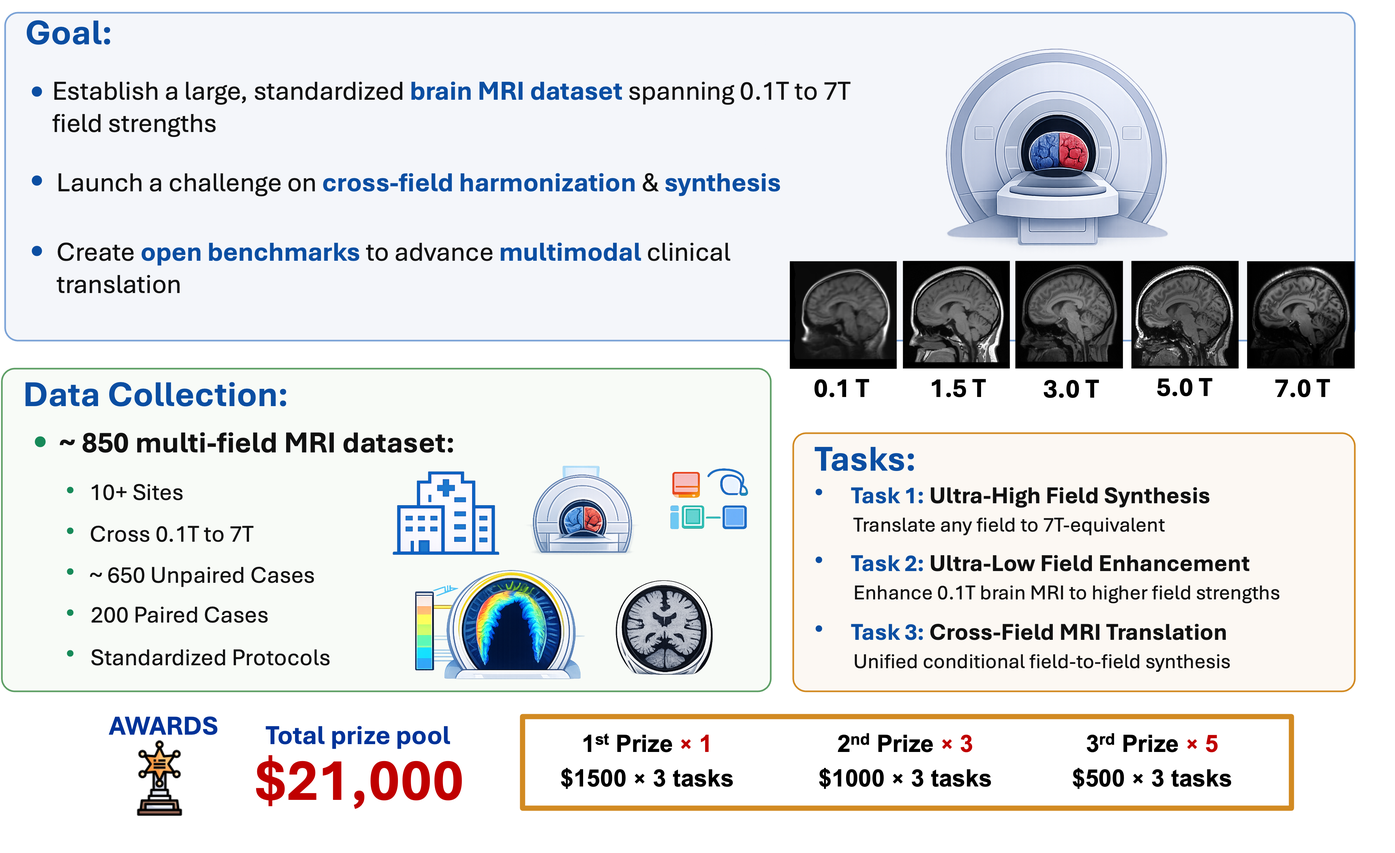
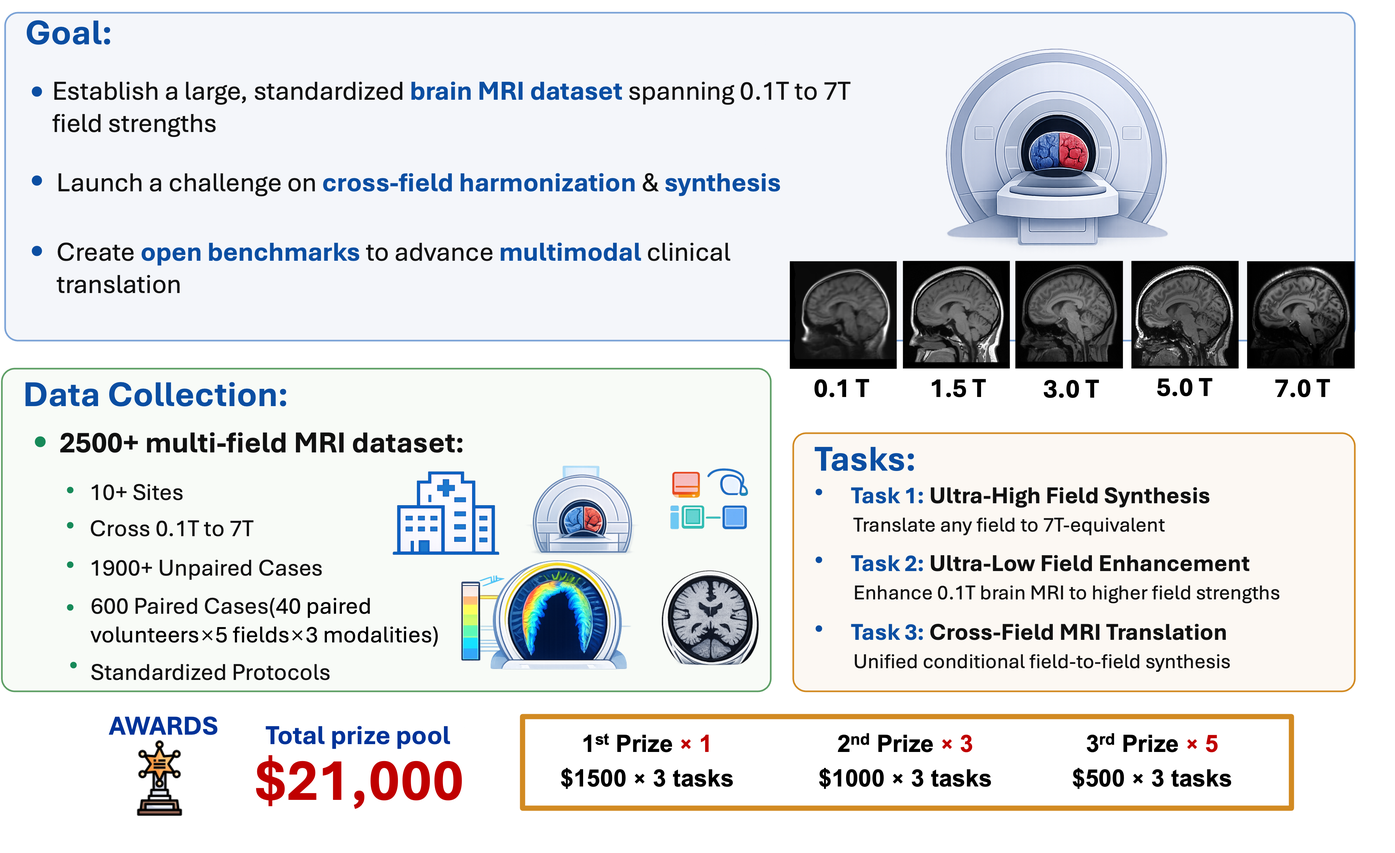
Refine MRIxFields2026 content updates

Changed region(s): [[0.0621, 0.5881, 0.5593, 0.8047], [0.0311, 0.4952, 0.3418, 0.5262]]

diff --git a/pages/mrixfields-2026/data.md b/pages/mrixfields-2026/data.md
@@ -12,81 +12,74 @@ title: Data
 </center>
 
 ## Data sources
-MRIxFields2026 provides a large-scale multi-field MRI dataset spanning 0.1T to 7T, integrating unpaired multi-center cohorts with prospectively acquired travelling-volunteer paired data.
+MRIxFields2026 provides a large-scale multi-field MRI dataset spanning 0.1T to 7T, integrating unpaired multi-center cohorts with prospectively acquired travelling-volunteer paired data. 
 
 💾 **Data Overview: Scale & Diversity**
 
 - **Total Volume:**  
-  - Total Volume: The dataset comprises approximately unpaired ~ 650 retrospective cases for each modality (average, scanned at all 5 field strengths ) and 40 prospectively acquired travelling-volunteer cases (paired, scanned at all 5 field strengths), yielding 200 cross-field paired scans for each modality.
+  - Total Volume: The dataset comprises approximately 2500+ retrospective unpaired cases (5 fields; 3 modalities ) and 600 paired cases (40 paired volunteers×5 fields×3 modalities).
 
-- **Multi-field structural brain MRI data featuring:5 Field Strengths: 0.1T, 1.5T, 3T, 5T, 7T systems.**  
-  - 3 Modalities: 3D T1-Weighted (T1W), 2D/3D T2-Weighted (T2W), 2D/3D T2-FLAIR.
+- **○Multi-field structural brain MRI data featuring:5 Field Strengths: 0.1T, 1.5T, 3T, 5T, 7T systems.**  
+  - 3 Modalities: 3D T1-Weighted (T1W), 2D/3D T2-Weighted (T2W), 2D/3D T2 FLAIR.(For 2D data, we utilize a pre-trained super-resolution network to reconstruct 3D volumes from 2D inputs.)
   - 3 Manufacturers: Siemens Healthineers, United Imaging Healthcare, Point Imaging. 
 
 | Field Strength | Prospective T1w (paired) | Prospective T2w (paired) | Prospective T2 FLAIR (paired) | Retrospective T1w (unpaired) | Retrospective T2w (unpaired) | Retrospective T2 FLAIR (unpaired) | Scanners | Manufacturer |
-|---|---:|---:|---:|-----------------------------:|-----------------------------:|----------------------------------:|---|---|
-| 0.1T | 40 (3D) | 40 (3D) | 40 (3D) |                     100 (3D) |                     100 (3D) |                           99 (2D) | piMR-820H | Point Imaging |
-| 1.5T | 40 (3D) | 40 (3D) | 40 (3D) |                     104 (3D) |                     221 (2D) |                          221 (2D) | uMR 670 | United Imaging Healthcare |
-| 3T | 40 (3D) | 40 (3D) | 40 (3D) |                     143 (3D) |                     142 (3D) |                          143 (2D) | MAGNETOM Prisma | Siemens Healthineers |
-| 5T | 40 (3D) | 40 (3D) | 40 (3D) |                     121 (3D) |                      43 (3D) |                          102 (2D) | uMR Jupiter | United Imaging Healthcare |
-| 7T | 40 (3D) | 40 (3D) | 40 (3D) |                     235 (3D) |                      81 (3D) |                           84 (2D) | MAGNETOM Terra | Siemens Healthineers |
-
+|---|---:|---:|---:|---:|---:|---:|---|---|
+| 0.1T | 40 (3D) | 40 (3D) | 40 (2D) | 100 (3D) | 100 (3D) | 99 (2D) | piMR-820H | Point Imaging |
+| 1.5T | 40 (3D) | 40 (3D) | 40 (2D) | 104 (3D) | 221 (2D) | 221 (2D) | uMR 670 | United Imaging Healthcare |
+| 3T | 40 (3D) | 40 (3D) | 40 (2D) | 143 (3D) | 142 (3D) | 143 (2D) | MAGNETOM Prisma | Siemens Healthineers |
+| 5T | 40 (3D) | 40 (3D) | 40 (2D) | 121 (3D) | 43 (3D) | 102 (2D) | uMR Jupiter | United Imaging Healthcare |
+| 7T | 40 (3D) | 40 (3D) | 40 (2D) | 235 (3D) | 81 (3D) | 84 (2D) | MAGNETOM Terra | Siemens Healthineers |
 
 📊 **Dataset seperation: Training, Validation, and Testing**
 
 ### Overall Split
 
-- Training set: About 665 cases for each modality (average), consisting of the retrospective unpaired cohort together with paired data from 10 travelling volunteers × 5 field strengths
-- Validation set: 85 cases, corresponding to 17 volunteers × 5 field strengths
-- Test set: 100 cases, corresponding to 20 held-out volunteers × 5 field strengths
+- Training set: 1945+ cases (T1W, T2W, T2 FLAIR), consisting of the 1900+ retrospective unpaired cases together with 45 paired cases (3 paired volunteers× 5 fields×3 modalities)
+- Validation set: 255 cases, corresponding to 17 volunteers × 5 fields × 3 modalities
+- Test set: 300 cases, corresponding to 20 held-out volunteers × 5 fields × 3 modalities
 
 The precise role of each split varies across tasks, depending on whether the task is driven primarily by unpaired learning, paired target-domain supervision, or controllable conditional generation.
 
 
 ### Task 1: Ultra-High-Field MRI Synthesis from Arbitrary Input Field Strengths
 
-- **Training Set (N ≈ 665 for each modality in average)**  
-  - The training set consists primarily of the retrospective unpaired cohort **(N ≈ 650 cases)**, supplemented with paired data from **3 travelling volunteers (N = 15 cases).**
+- **Training Set (1945+ cases)**  
+  - The training set consists 1900+ retrospective unpaired cases, supplemented with 45 paired cases (3 paired volunteers× 5 fields×3 modalities).
 
-  This yields a total of more than **665 training cases**, covering all five field strengths and multiple structural contrasts.
+- **Validation Set (255 cases):**  
+  - The validation set consists of 17 travelling volunteers scanned across five field strengths and 3 modalities (17 × 5 × 3 =255 cases).
 
-- **Validation Set (N = 85 for each modality in average):**  
-  - The validation set consists of **17 travelling volunteers scanned across five field strengths (17 × 5 = 85 cases).**
+  These paired data enable controlled within-case validation against corresponding 7T targets.
 
-  These paired data enable controlled within-subject validation against corresponding 7T targets.
-
-- **Test Set (N = 100 for each modality in average):**  
-  - The test set includes **20 held-out travelling volunteers scanned across five field strengths (20 × 5 = 100 cases).**
+- **Test Set (300 cases):**  
+  - The test set includes 20 held-out travelling volunteers scanned across five field strengths and 3 modalities (20 × 5 × 3 = 300 cases).
 
   Paired 7T references are withheld and used exclusively for final evaluation.
 
 ### Task 2: Higher-Field MRI Generation from Ultra-Low-Field MRI
 
-- **Training Set (N ≈ 665 for each modality in average)**  
-  - The training set includes all retrospective unpaired data **(N ≈ 650 cases)**, with emphasis on **0.1T inputs**, and paired data from **3 travelling volunteers (N = 15 cases).**
+- **Training Set (1945+ cases)**  
+  - The training set consists 1900+ retrospective unpaired cases, supplemented with 45 paired cases (3 paired volunteers× 5 fields×3 modalities).
 
-  In total, the training set contains about **665 cases**, spanning ultra-low-field to higher-field domains.
+- **Validation Set (255 cases):**  
+  - The validation set consists of 17 travelling volunteers (17 × 5 × 3 =255 cases), including paired 0.1T and higher-field scans with 3 modalities for within-case evaluation.
 
-- **Validation Set (N = 85 for each modality in average):**  
-  - The validation set consists of **17 travelling volunteers (N = 85 cases)**, including paired **0.1T and higher-field scans** for within-subject evaluation.
-
-- **Test Set (N = 100 for each modality in average):**  
-  - The test set consists of **20 held-out travelling volunteers (N = 100 cases).**
+- **Test Set (300 cases):**  
+  - The test set consists of 20 held-out travelling volunteers (20 × 5 × 3 = 300 cases).
 
   The 0.1T images serve as inputs, while higher-field references are withheld for evaluation.
 
 ### Task 3: Controllable Field-to-Field MRI Synthesis with a Unified Conditional Model
 
-- **Training Set (N ≈ 665 for each modality in average)**  
-  - The training set includes the full retrospective unpaired cohort **(N ≈ 650 cases)** and paired data from **3 travelling volunteers (N = 15 cases).**
+- **Training Set (1945+ cases)**  
+  - The training set consists 1900+ retrospective unpaired cases, supplemented with 45 paired cases (3 paired volunteers× 5 fields×3 modalities).
 
-  This results in about **665 training cases**, covering all field strengths and supporting many-to-many translation learning.
+- **Validation Set (255 cases):**  
+  - The validation set consists of 17 travelling volunteers (N = 255 cases), enabling evaluation across all possible field-to-field translation directions.
 
-- **Validation Set (N = 85 for each modality in average):**  
-  - The validation set consists of **17 travelling volunteers (N = 85 cases)**, enabling evaluation across all possible field-to-field translation directions.
-
-- **Test Set (N = 100 for each modality in average):**  
-  - The test set consists of **20 held-out travelling volunteers (N = 100 cases).**
+- **Test Set (300 cases):**  
+  - The test set consists of 20 held-out travelling volunteers (N = 300 cases).
 
 All target-domain references are withheld and used only for final ranking.
 
@@ -98,25 +91,25 @@ To ensure anatomical consistency across field strengths while preserving realist
 
 #### 1.1 Prospective Travelling-Volunteer Cohort (Paired Data)
 
-For the paired dataset, we adopted a **subject-specific, 3T-anchored registration strategy** to preserve within-subject anatomical correspondence across field strengths while minimizing artificial deformation.
+For the paired dataset, we adopted a case-specific, 3T-anchored registration strategy to preserve within-case anatomical correspondence across field strengths while minimizing artificial deformation.
 
-##### Step 0: Intra-subject multi-contrast alignment
-For each subject, **T2-weighted** and **T2-FLAIR** images were first rigidly registered to the corresponding **T1-weighted** image to ensure within-subject cross-contrast alignment.
+##### Step 0: Intra-case multi-contrast alignment
+For each case, T2W and T2 FLAIR images were first rigidly registered to the corresponding T1W image to ensure within-case cross-contrast alignment.
 
 ##### Step 1: Skull stripping
-Skull stripping was then performed using **HD-BET** on the **T1-weighted** images, and the resulting brain masks were propagated to **T2-weighted** and **T2-FLAIR** images.
+Skull stripping was then performed using HD-BET on the T1W images, and the resulting brain masks were propagated to T2W and T2 FLAIR images.
 
 ##### Step 2: Reference definition
-The skull-stripped **3T T1-weighted** image was rigidly registered to the **MNI152 (0.5 mm, skull-off) template**, establishing a subject-specific reference in standard space.
+The skull-stripped 3T T1W image was rigidly registered to the MNI152 (0.5 mm, skull-off) template, establishing a case-specific reference in standard space.
 
 ##### Step 3: Cross-field alignment
-T1-weighted images from all other field strengths (**0.1T, 1.5T, 5T, and 7T**) were rigidly registered to the **subject-specific 3T T1 image in MNI space**, ensuring consistent global alignment across fields.
+T1W images from all other field strengths (0.1T, 1.5T, 5T, and 7T) were rigidly registered to the case-specific 3T T1W image in MNI space, ensuring consistent global alignment across fields.
 
 ##### Step 4: Nonlinear refinement (optional)
-For cases with residual misalignment, **SyN nonlinear registration (ANTs)** was applied as a refinement step to improve local anatomical correspondence.
+For cases with residual misalignment, SyN nonlinear registration (ANTs) was applied as a refinement step to improve local anatomical correspondence.
 
 ##### Multi-contrast propagation
-The estimated transformations from **T1-weighted** images were propagated to the corresponding **T2-weighted** and **T2-FLAIR** images. When necessary, additional **SyN-based refinement** was applied to these modalities to correct residual mismatch.
+The estimated transformations from T1W images were propagated to the corresponding T2W and T2 FLAIR images. When necessary, additional SyN-based refinement was applied to these modalities to correct residual mismatch.
 
 #### 1.2 Retrospective Multi-Field Cohort (Unpaired Data)
 
@@ -144,7 +137,7 @@ This process ensures high data quality and reliable anatomical alignment across 
 
 ### 5. Data Organization
 
-All processed data are organized according to the **BIDS (Brain Imaging Data Structure)** standard, with consistent metadata across subjects, field strengths, and acquisition sites.
+All processed data are organized according to the **BIDS (Brain Imaging Data Structure)** standard, with consistent metadata across volunteers, field strengths, and acquisition sites.
 
 #### Reference Information
 
@@ -164,7 +157,7 @@ Segmentation was applied uniformly to all images after preprocessing, without ad
 
 ### 2. Structural Feature Extraction
 
-Based on the segmentation outputs, regional structural measures were derived for each subject, including:
+Based on the segmentation outputs, regional structural measures were derived for each case, including:
 
 - Regional brain volumes for deep gray matter structures
 - Bilateral measurements across anatomical regions
@@ -209,37 +202,37 @@ This post-processing step provides anatomically meaningful representations of th
 
 ``` text
 ChallengeData
-├── Training_retrospective/          # Training (unpaired, different subjects)
-│   ├── 3D_T1W/
+├── Training_retrospective/          # Training (unpaired, different volunteers)
+│   ├── T1W/
 │   │   ├── 0.1T/*.nii.gz
 │   │   ├── 1.5T/*.nii.gz
 │   │   ├── 3T/*.nii.gz
 │   │   ├── 5T/*.nii.gz
 │   │   └── 7T/*.nii.gz
-│   ├── 3D_T2W/
+│   ├── T2W/
 │   │   ├── 0.1T/*.nii.gz
 │   │   ├── 1.5T/*.nii.gz
 │   │   ├── 3T/*.nii.gz
 │   │   ├── 5T/*.nii.gz
 │   │   └── 7T/*.nii.gz
-│   └── 3D_T2_Flair/
+│   └── T2FLAIR/
 │       ├── 0.1T/*.nii.gz
 │       ├── 1.5T/*.nii.gz
 │       ├── 3T/*.nii.gz
 │       ├── 5T/*.nii.gz
 │       └── 7T/*.nii.gz
 ├── Training_prospective/            # Training (paired, travelling volunteers)
-│   ├── 3D_T1W/ {0.1T, 1.5T, 3T, 5T, 7T}
-│   ├── 3D_T2W/
-│   └── 3D_T2_Flair/
+│   ├── T1W/ {0.1T, 1.5T, 3T, 5T, 7T}
+│   ├── T2W/
+│   └── T2FLAIR/
 ├── Validating_prospective/          # Validation (paired)
-│   ├── 3D_T1W/{0.1T, 1.5T, 3T, 5T, 7T}
-│   ├── 3D_T2W/
-│   └── 3D_T2_Flair/
+│   ├── T1W/{0.1T, 1.5T, 3T, 5T, 7T}
+│   ├── T2W/
+│   └── T2FLAIR/
 └── Testing_prospective/             # Test (paired)
-    ├── 3D_T1W/{0.1T, 1.5T, 3T, 5T, 7T}
-    ├── 3D_T2W/
-    └── 3D_T2_Flair/
+    ├── T1W/{0.1T, 1.5T, 3T, 5T, 7T}
+    ├── T2W/
+    └── T2FLAIR/
 ```
 
 For each individual NIfTI file, our naming convention is “field strength_ID”, for example, “5T_002”. Please note that the same ID corresponds to the same subject, while different IDs correspond to different subjects. Therefore, if you plan to use multi-contrast data for training, you will need to match the IDs accordingly.

diff --git a/pages/mrixfields-2026/tasks.md b/pages/mrixfields-2026/tasks.md
@@ -10,7 +10,7 @@ The MRIxFields2026 challenge includes three complementary tasks. The tasks are e
 For each task, participants must submit their models separately as containerized inference pipelines via Docker images. Participants are allowed to make up to 3 formal submissions per task, and only the last run is officially counted to rank the results.
 
 
-Please note that for all three tasks, the provided datasets are identical: consisting of about 650 unpaired for each modality (average) and 3 paired volunteers (15 cases) for training, 17 paired volunteers (85 cases) for validation, and 20 paired volunteers (100 cases) for testing. However, the evaluation reference targets will vary depending on the specific task (e.g., using a fixed 7T reference for Task 1, versus dynamic field-conditioned targets for Task 3).
+Please note that for all three tasks, the provided datasets are identical: consisting of about 1900+ unpaired cases (T1W, T2W, T2 FLAIR) and 45 paired cases (3 paired volunteers × 5 fields × 3 modalities) for training, 255 paired cases (17 paired volunteers × 5 fields × 3 modalities)  for validation, and 300 paired cases (20 paired volunteers × 5 fields × 3 modalities) for testing. However, the evaluation reference targets will vary depending on the specific task (e.g., using a fixed 7T reference for Task 1, versus dynamic field-conditioned targets for Task 3).
 
 <center>
   <img src="/tasks/3tasks.png" alt="Awards Overview" width="100%" style="max-width: 1100px; height: auto; margin-bottom: 20px;">
@@ -168,10 +168,19 @@ The schedule of the challenge is as follows. All deadlines are Pacific Standard 
 
 6. Any publicly available datasets can be used for training. However, participants are not allowed to use their own private data to ensure the fairness of this challenge. Data augmentation based on the training dataset is allowed. No manual interventions, such as manual annotation of cases, are allowed.
 
-7. For Task 1 and Task 2, participants may design separate models for different input field strengths (4 input field strengths) and different image contrasts (T1w, T2w, T2-FLAIR) to address field-dependent variations in noise, resolution, and contrast behavior. That is, you may provide 12 separate models for image generation. However, for Task 3, participants must utilize a single unified conditional model to enable dynamic image generation conditioned on desired target field parameters. You may use a prompt-based mechanism, but only one set of pretrained parameters is allowed to be stored for Task 3. If a participating team submits multiple models for Task 3, the submission will be disqualified and no score will be counted.
+7. For Task 1 and Task 2, participants may design separate models for different input field strengths (4 input field strengths) and different image contrasts (T1W, T2W, T2 FLAIR) to address field-dependent variations in noise, resolution, and contrast behavior. That is, you may provide 12 separate models for image generation. However, for Task 3, participants must utilize a single unified conditional model to enable dynamic image generation conditioned on desired target field parameters. You may use a prompt-based mechanism, but only one set of pretrained parameters is allowed to be stored for Task 3. If a participating team submits multiple models for Task 3, the submission will be disqualified and no score will be counted.
 
-8. Participants may choose to use a single contrast (e.g., T1w) as input for model inference, or multiple contrasts (e.g., T1w + T2w + T2-FLAIR). The outputs can be either multi-contrast or single-contrast. We do not impose any restrictions on how participants use the provided data. However, please note that in the retrospective dataset, not every case includes all contrasts (T1w + T2w + T2-FLAIR). For matching across contrasts, please refer to the following: for each individual NIfTI file, our naming convention is "field strength_ID", for example, "5T_002". Please note that the same ID corresponds to the same subject, while different IDs correspond to different subjects. Therefore, if you intend to use multi-contrast data for training, you will need to match the IDs accordingly. For retrospective data (from different subjects), we only performed rigid registration. If you are not satisfied with the cross-contrast alignment, you may perform your own registration. For prospective data (from the same subject), we applied deformable registration to achieve better spatial consistency across field strengths and contrasts.
+8. Participants may choose to use a single contrast (e.g., T1W) as input for model inference, or multiple contrasts (e.g., T1W + T2W + T2 FLAIR). The outputs can be either multi-contrast or single-contrast. We do not impose any restrictions on how participants use the provided data. However, please note that in the retrospective dataset, not every case includes all contrasts (T1W + T2W + T2 FLAIR).
 
+   For matching across contrasts, please refer to the following:
+
+   Retrospective data uses global sequential IDs from 0001 to 1056. Each field strength occupies a distinct ID range: 0.1T corresponds to 0001–0100 (100 volunteers), 1.5T to 0101–0328 (228 volunteers), 3T to 0329–0471 (143 volunteers), 5T to 0472–0737 (266 volunteers), and 7T to 0738–1056 (319 volunteers). Since each subject was scanned at only one field strength, data across different field strengths are unpaired.
+
+   Prospective data uses IDs from 0001 to 0040. The same ID across all field strengths corresponds to the same volunteers. For example, P_T1W_0.1T_0006.nii.gz and P_T1W_7T_0006.nii.gz are from the same person scanned at 0.1T and 7T respectively. This enables paired training and evaluation across field strengths.
+
+   For retrospective data (from different volunteers), we only performed rigid registration. If you are not satisfied with the cross-contrast alignment, you may perform your own registration.
+
+   For prospective data (from the same volunteers), we applied deformable registration to achieve better spatial consistency across field strengths and contrasts.
 9. During the validation phase, to ensure efficiency in image segmentation, participants are required to perform segmentation locally and upload the segmentation results along with their submissions to the validation platform. During the test phase, participants only need to submit their inference Docker container, and we will perform standardized segmentation and evaluation.
 
 10. During the validation phase, each team is allowed to submit up to three times per day per task. In the test phase, each team can submit up to five Docker containers per task in total. The final ranking will be based on the results of the last submission.

diff --git a/pages/mrixfields-2026/faq.md b/pages/mrixfields-2026/faq.md
@@ -85,10 +85,19 @@ Yes, participants are free to join any single task. Of course, they are also wel
 
 6. Any publicly available datasets can be used for training. However, participants are not allowed to use their own private data to ensure the fairness of this challenge. Data augmentation based on the training dataset is allowed. No manual interventions, such as manual annotation of cases, are allowed.
 
-7. For Task 1 and Task 2, participants may design separate models for different input field strengths (4 input field strengths) and different image contrasts (T1w, T2w, T2-FLAIR) to address field-dependent variations in noise, resolution, and contrast behavior. That is, you may provide 12 separate models for image generation. However, for Task 3, participants must utilize a single unified conditional model to enable dynamic image generation conditioned on desired target field parameters. You may use a prompt-based mechanism, but only one set of pretrained parameters is allowed to be stored for Task 3. If a participating team submits multiple models for Task 3, the submission will be disqualified and no score will be counted.
+7. For Task 1 and Task 2, participants may design separate models for different input field strengths (4 input field strengths) and different image contrasts (T1W, T2W, T2 FLAIR) to address field-dependent variations in noise, resolution, and contrast behavior. That is, you may provide 12 separate models for image generation. However, for Task 3, participants must utilize a single unified conditional model to enable dynamic image generation conditioned on desired target field parameters. You may use a prompt-based mechanism, but only one set of pretrained parameters is allowed to be stored for Task 3. If a participating team submits multiple models for Task 3, the submission will be disqualified and no score will be counted.
 
-8. Participants may choose to use a single contrast (e.g., T1w) as input for model inference, or multiple contrasts (e.g., T1w + T2w + T2-FLAIR). The outputs can be either multi-contrast or single-contrast. We do not impose any restrictions on how participants use the provided data. However, please note that in the retrospective dataset, not every case includes all contrasts (T1w + T2w + T2-FLAIR). For matching across contrasts, please refer to the following: for each individual NIfTI file, our naming convention is "field strength_ID", for example, "5T_002". Please note that the same ID corresponds to the same subject, while different IDs correspond to different subjects. Therefore, if you intend to use multi-contrast data for training, you will need to match the IDs accordingly. For retrospective data (from different subjects), we only performed rigid registration. If you are not satisfied with the cross-contrast alignment, you may perform your own registration. For prospective data (from the same subject), we applied deformable registration to achieve better spatial consistency across field strengths and contrasts.
+8. Participants may choose to use a single contrast (e.g., T1W) as input for model inference, or multiple contrasts (e.g., T1W + T2W + T2 FLAIR). The outputs can be either multi-contrast or single-contrast. We do not impose any restrictions on how participants use the provided data. However, please note that in the retrospective dataset, not every case includes all contrasts (T1W + T2W + T2 FLAIR).
 
+   For matching across contrasts, please refer to the following:
+
+   Retrospective data uses global sequential IDs from 0001 to 1056. Each field strength occupies a distinct ID range: 0.1T corresponds to 0001–0100 (100 volunteers), 1.5T to 0101–0328 (228 volunteers), 3T to 0329–0471 (143 volunteers), 5T to 0472–0737 (266 volunteers), and 7T to 0738–1056 (319 volunteers). Since each subject was scanned at only one field strength, data across different field strengths are unpaired.
+
+   Prospective data uses IDs from 0001 to 0040. The same ID across all field strengths corresponds to the same volunteers. For example, P_T1W_0.1T_0006.nii.gz and P_T1W_7T_0006.nii.gz are from the same person scanned at 0.1T and 7T respectively. This enables paired training and evaluation across field strengths.
+
+   For retrospective data (from different volunteers), we only performed rigid registration. If you are not satisfied with the cross-contrast alignment, you may perform your own registration.
+
+   For prospective data (from the same volunteers), we applied deformable registration to achieve better spatial consistency across field strengths and contrasts.
 9. During the validation phase, to ensure efficiency in image segmentation, participants are required to perform segmentation locally and upload the segmentation results along with their submissions to the validation platform. During the test phase, participants only need to submit their inference Docker container, and we will perform standardized segmentation and evaluation.
 
 10. During the validation phase, each team is allowed to submit up to three times per day per task. In the test phase, each team can submit up to five Docker containers per task in total. The final ranking will be based on the results of the last submission.

diff --git a/pages/mrixfields-2026/index.md b/pages/mrixfields-2026/index.md
@@ -10,7 +10,7 @@ features:
   - title: Unified Generative Modeling 
     details: A structured valuation protocol defining three complementary tasks. 7T-equivalent synthesis, ultra-low-field enhancement, and controllable any-to-any field-conditioned transformation.
   - title: Comprehensive Multi-Field Dataset 
-    details: About 850 multi-center scans spanning 0.1T–7T, including 500 unpaired subjects and 200 (5 scanners) prospectively acquired travelling-volunteer paired scans for anatomically grounded cross-field evaluation.
+    details: 2500+ MRI multi-center cases spanning 0.1T–7T (T1W, T2W, T2 FLAIR), including 1900+ unpaired cases (1056 volunteers) and 600 paired cases (40 paired volunteers ×5 fields ×3 modalities) acquired travelling-volunteer paired scans for anatomically grounded cross-field evaluation. 
   - title: Cross-Field MRI Harmonization
     details: Addressing field-strength heterogeneity as a structured full-spectrum benchmark (0.1T–7T) for principled cross-domain generalization and representation consistency. 
 
@@ -79,12 +79,12 @@ While MRI is a central tool for neuroscience research and clinical assessment, t
 | Imaging Modality | Structural MRI                                                                                                     |
 | Sequences / Contrasts | 3D T1-weighted, 2D/3D T2-weighted, 2D/3D T2-FLAIR                                                                  |
 | Data Composition | Unpaired multi-field cohorts + travelling-volunteer paired cross-field cohort                                      |
-| Total Cases | ~ 850 cases / modality (average)                                                                                   |
-| Unpaired Cohort | ~ 650 cases / modality (average)                                                                                   |
-| Paired Cohort | 200 cases / modality (40 voluneers × 5 field strengths)                                                            |
-| Training Set | ~ 665 cases / modality (average; unpaired cohort + 3 paired subjects × 5 field strenghts)                          |
-| Validation Set | 85 cases / modality (17 volunteers × 5 field strengths)                                                            |
-| Test Set | 100 cases / modality (20 held-out volunteers × 5 field strengths)                                                  |
+| Total Cases | 2500+ cases                                                                                                        |
+| Unpaired Cohort | 1900+ cases                                                                                                        |
+| Paired Cohort | 600 cases (40 paired voluneers × 5 field  × 3 modalities)                                                          |
+| Training Set | 1945+ cases (1900+ unpaired cases + 3 paired volunteers × 5 field × 3 modalities)                                  |
+| Validation Set | 255 cases (17 volunteers × 5 field strengths × 3 modalities)                                                       |
+| Test Set | 300 cases (20 held-out volunteers × 5 field strengths × 3 modalities)                                                            |
 | Case Definition | One case is defined as a complete scan of a single subject acquired on one MRI system at a specific field strength |
 | Paired Information | The travelling-volunteer cohort consists of the same subjects scanned across all five field strengths              |
 | Primary Applications | Cross-field MRI synthesis, ultra-low-field enhancement, controllable field-to-field translation                    |
@@ -92,7 +92,7 @@ While MRI is a central tool for neuroscience research and clinical assessment, t
 | Evaluation Metrics | nRMSE, SSIM, LPIPS, Dice, normalized volume consistency                                                            |
 | Scanners | 0.1T: piMR-820H; 1.5T: uMR 670; 3T: MAGNETOM Prisma; 5T: uMR Jupiter; 7T: MAGNETOM Terra                           |
 
-To bridge the gap between heterogeneous clinical acquisitions and high-fidelity neuroscience research, the MRIxFields2026 challenge utilizes about 850 cases spanning 5 magnetic field strengths (0.1T to 7T) for each modality (average) to evaluate generative models across three specific tasks:
+To bridge the gap between heterogeneous clinical acquisitions and high-fidelity neuroscience research, the MRIxFields2026 challenge utilizes 2500+ cases spanning 5 magnetic field strengths (0.1T to 7T) for 3 modalities to evaluate generative models across three specific tasks:
 
 
 1. **Task 1: Ultra-High Field MRI Synthesis from Arbitrary Magnetic Field Strengths** – Targets the generation of high-field-equivalent MRI from arbitrary input field strengths, enabling models to recover fine anatomical details and quantitative properties associated with 7T imaging.
